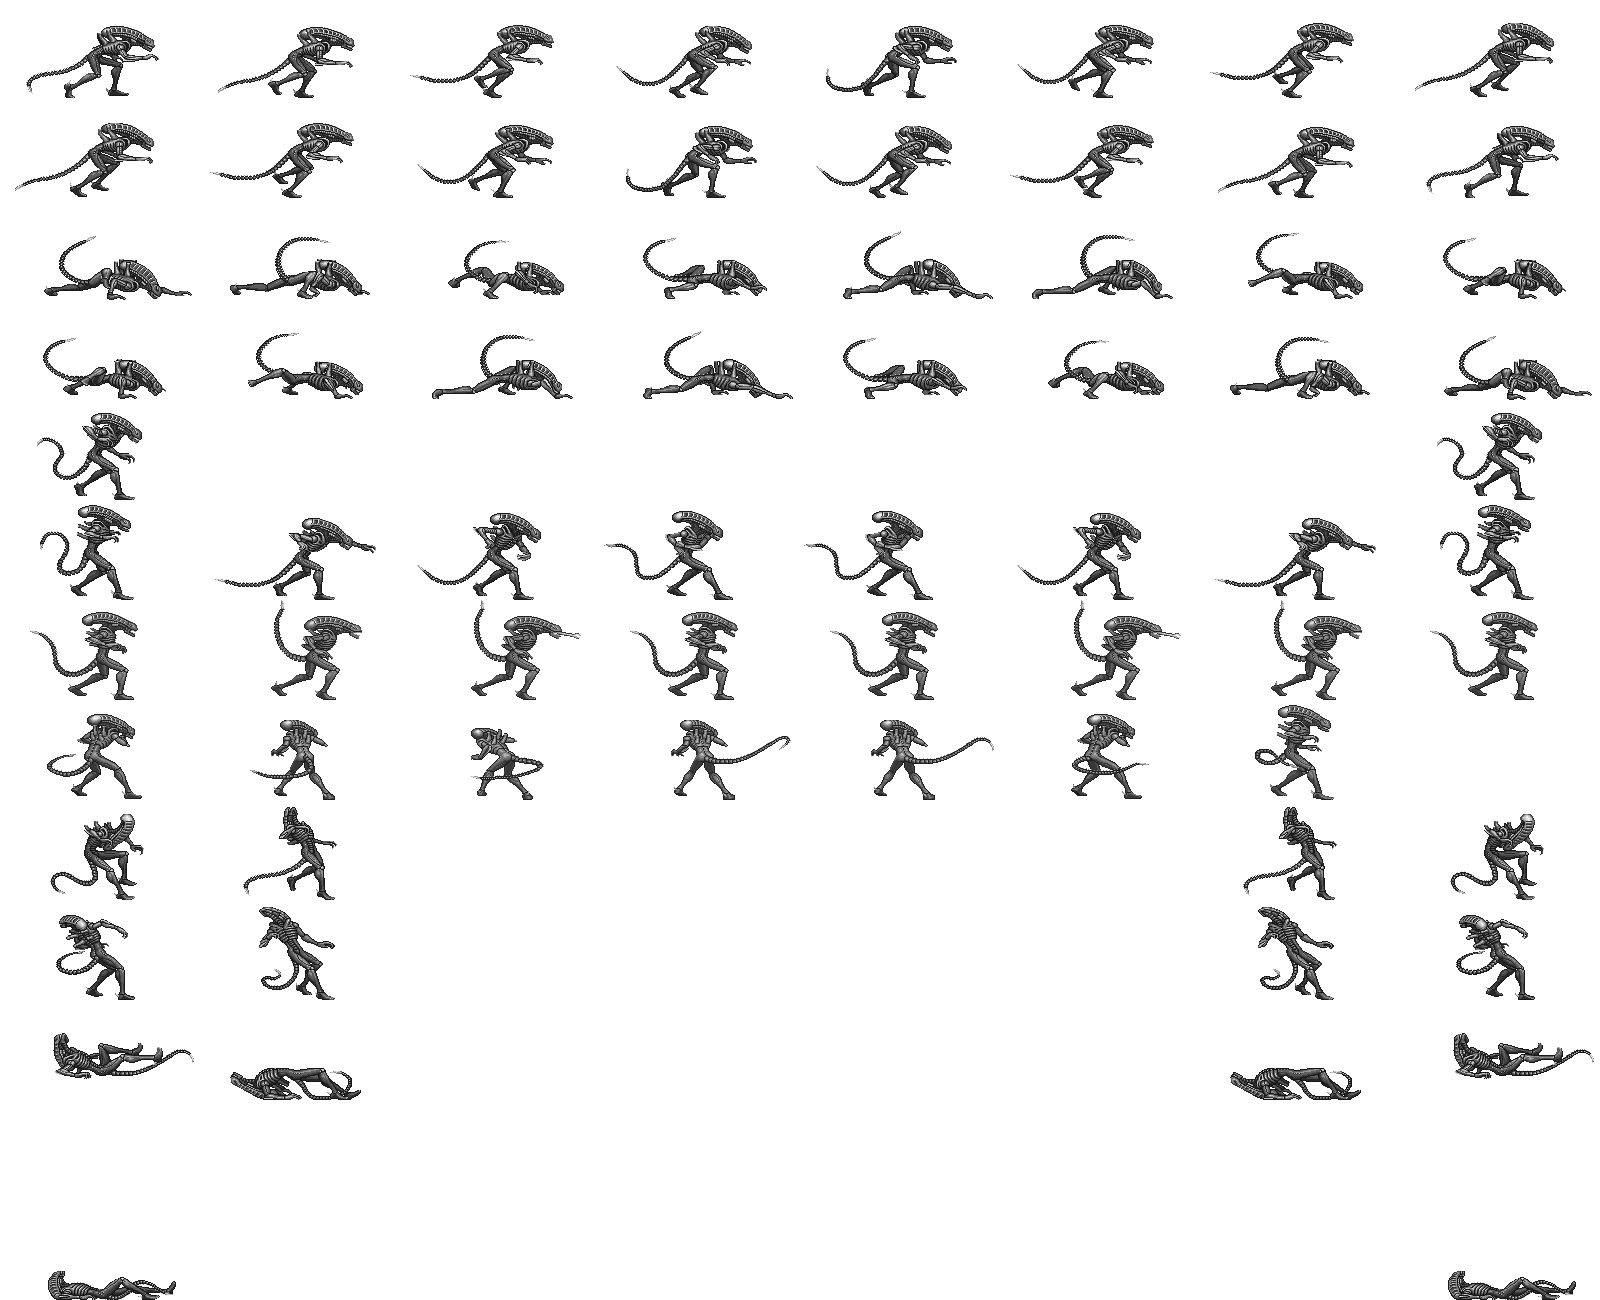
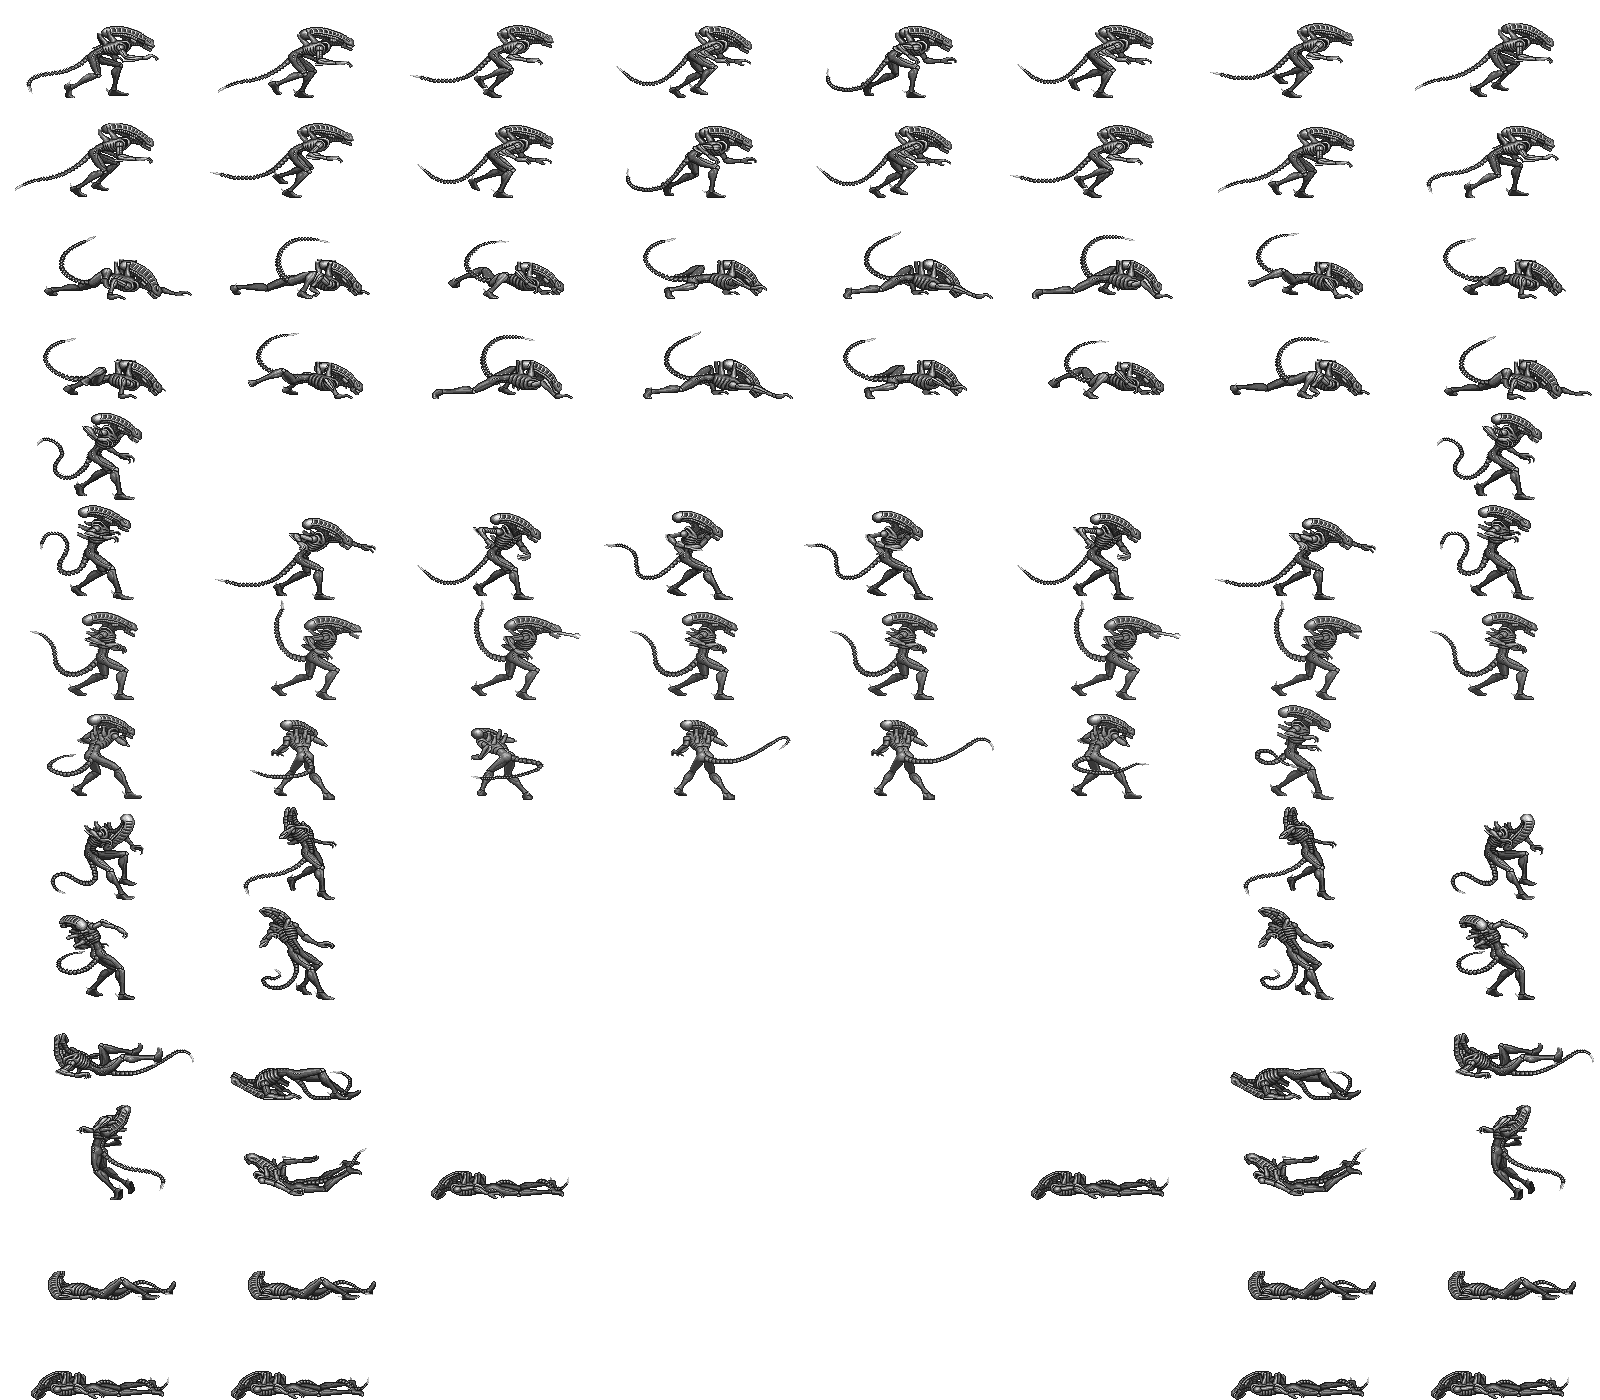
nextStep amend no repeat

diff --git a/demo/game/npc.js b/demo/game/npc.js
@@ -117,7 +117,7 @@ export default class Npc extends Component {
 
       if (this.isDown && this.state.spritePlaying === false) {
         this.isDown = false;
-        console.log(`respawn`);
+        return this.respawn();
       }
     }
     this.lastX = store.npcPositions[npcIndex].x;
@@ -128,11 +128,13 @@ export default class Npc extends Component {
     let npcState = this.state.npcState;
 
     if (store.characterIsAttacking) {
-      if(store.npcPositions[npcIndex].x < store.characterPosition.x && store.characterDirection === -1) {
-        return this.hit();
-      }
-      else if(store.npcPositions[npcIndex].x > store.characterPosition.x && store.characterDirection === 1) {
-        return this.hit();
+      if (Math.abs(store.npcPositions[npcIndex].x - store.characterPosition.x) < Math.random() * 100 + 400) {
+        if (store.npcPositions[npcIndex].x < store.characterPosition.x && store.characterDirection === -1) {
+          return this.hit();
+        }
+        else if (store.npcPositions[npcIndex].x > store.characterPosition.x && store.characterDirection === 1) {
+          return this.hit();
+        }
       }
     }
 
@@ -174,20 +176,20 @@ export default class Npc extends Component {
   hit = () => {
     const {store, npcIndex} = this.props;
     const direction = store.npcPositions[npcIndex].x < store.characterPosition.x ? 1 : -1;
-    if(this.state.hasHit < 3) {
+    if (this.state.hasHit < 3) {
       this.isHit = true;
-      const distance = direction < 0 ? Math.ceil(Math.random()*10) : 0-Math.ceil(Math.random()*10);
+      const distance = direction < 0 ? Math.ceil(Math.random() * 10) : 0 - Math.ceil(Math.random() * 10);
       store.setNpcPosition({x: store.npcPositions[npcIndex].x + distance, y: store.npcPositions[npcIndex].y}, npcIndex);
       this.setState(Object.assign({}, this.state, {
-        npcState:  this.state.hasHit % 2 > 0?8:9,
-        hasHit:this.state.hasHit + 1,
+        npcState: this.state.hasHit % 2 > 0 ? 8 : 9,
+        hasHit: this.state.hasHit + 1,
         direction,
         repeat: false,
         ticksPerFrame: 10
       }));
     }
     else {
-      this.drop();
+      return this.drop();
     }
   };
 
@@ -195,26 +197,41 @@ export default class Npc extends Component {
     this.isDrop = true;
     const {store, npcIndex} = this.props;
     const direction = store.npcPositions[npcIndex].x < store.characterPosition.x ? 1 : -1;
-    const distance = direction < 0 ? Math.ceil(Math.random()*28) : 0-Math.ceil(Math.random()*28);
-    store.setNpcPosition({x: store.npcPositions[npcIndex].x + distance*5, y: store.npcPositions[npcIndex].y}, npcIndex);
+    const distance = direction < 0 ? Math.ceil(Math.random() * 28) : 0 - Math.ceil(Math.random() * 28);
+    store.setNpcPosition({
+      x: store.npcPositions[npcIndex].x + distance * 5,
+      y: store.npcPositions[npcIndex].y
+    }, npcIndex);
     this.setState(Object.assign({}, this.state, {
-      npcState:  10,
-      hasHit:this.state.hasHit + 1,
+      npcState:this.state.hasStopped % 2 > 0 ? 11 : 11,
+      hasHit: this.state.hasHit + 1,
       direction,
       repeat: false,
       ticksPerFrame: 6
     }));
   };
 
+  respawn = () => {
+    const {store, npcIndex} = this.props;
+    const direction = store.npcPositions[npcIndex].x < store.characterPosition.x ? 1 : -1;
+    const distance = direction < 0 ? Math.ceil(Math.random() * 1000) + 1000 : -1000 - Math.ceil(Math.random() * 1000);
+    store.setNpcPosition({x: store.characterPosition.x + distance, y: store.npcPositions[npcIndex].y}, npcIndex);
+    this.setState(Object.assign({}, this.state, {
+      npcState: 4,
+      hasHit: 0,
+      direction,
+      repeat: false,
+      ticksPerFrame: 500
+    }));
+  };
+
   down = () => {
     this.isDown = true;
     this.setState(Object.assign({}, this.state, {
-      npcState:  12,
+      npcState: this.state.npcState === 10 ? 12 : 13,
       repeat: false,
-      ticksPerFrame: 1000
+      ticksPerFrame: 50 // respawn time
     }));
-
-    // respawn off screen
   };
 
   isBehind() {
@@ -285,11 +302,11 @@ export default class Npc extends Component {
 
   stop = () => {
     this.setState(Object.assign({}, this.state, {
-        npcState: 4,
-        ticksPerFrame: 5,
-        repeat: false,
-        hasStopped: this.state.hasStopped + 1
-      }));
+      npcState: 4,
+      ticksPerFrame: 5,
+      repeat: false,
+      hasStopped: this.state.hasStopped + 1
+    }));
   };
 
   render() {
@@ -307,7 +324,22 @@ export default class Npc extends Component {
           scale={this.context.scale * 1}
           direction={this.state.direction}
           state={this.state.npcState}
-          steps={[7,7,7,7,0,3,3,6,1,1,1,1,1]}
+          steps={[
+            7,
+            7,
+            7,
+            7,
+            0,
+            3,
+            3,
+            6,
+            1,
+            1,
+            1,
+            1,//drop 2
+            1,
+            1
+            ]}
           offset={[0, 0]}
           tileWidth={200}
           tileHeight={100}
@@ -324,7 +356,7 @@ export default class Npc extends Component {
           tileHeight={100}
           ticksPerFrame={2}
           top={Math.ceil(-90-Math.ceil(Math.random()*10))}
-          display={this.state.npcState === 9 ? "block" : "none"}
+          display={this.state.npcState === 9 || this.state.npcState === 10 ? "block" : "none"}
         />
         <Sprite
           repeat={this.state.repeat}

diff --git a/src/components/sprite.js b/src/components/sprite.js
@@ -88,8 +88,10 @@ export default class Sprite extends Component {
             if (steps[state] !== 0) {
                 const {currentStep} = this.state;
                 const lastStep = steps[state];
-                const nextStep = currentStep === lastStep ? 0 : currentStep + 1;
-
+                let nextStep = currentStep === lastStep ? 0 : currentStep + 1;
+                if(!repeat && currentStep > nextStep) {
+                    nextStep = currentStep;
+                }
                 this.setState({
                     currentStep: nextStep,
                 });
